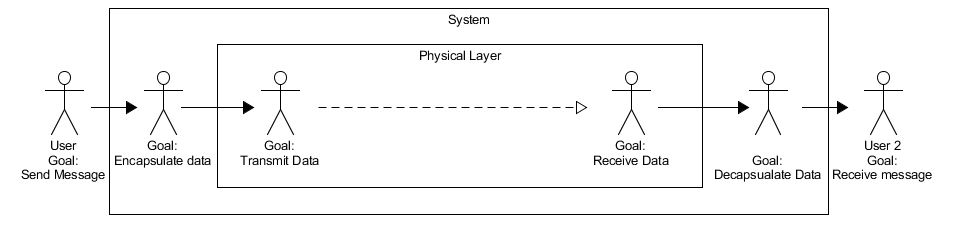
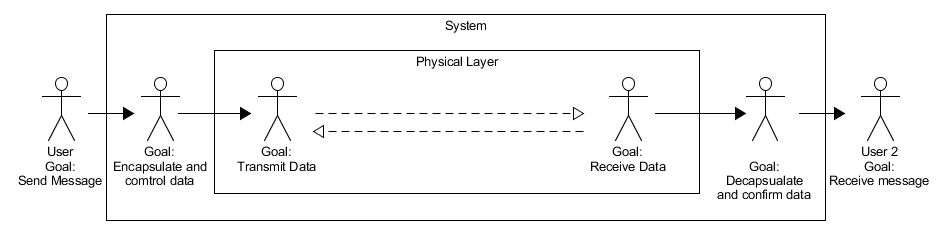
Skrevet på programstruktur

diff --git a/Documents/Rapport/Sections/Programstruktur.tex b/Documents/Rapport/Sections/Programstruktur.tex
@@ -1,38 +1,38 @@
+
+
 \section{Programstruktur}
-
-
+Baseret på de førnævnte krav blev designfasen påbegyndt. Målet var at forsimple opgaven for brugeren så meget som overhoved muligt, da det ikke vil kunne forvæntes at denne person kender noget til det bagvedlæggende system. 
+Tilsvarende ønskes der en simpel og generel anvendelse af programmets services fra de høje lag nær chat-klienten, hvor de mere administrative og praktiske funktionaliteter skal håndteres længere nede i systemet.
 
 \begin{figure}[h]
 \centering
 \includegraphics[scale=0.5]{Billeder/ProgramOpbygning1.JPG}
-\caption{Jeg kan se at det virker, så det virker}
+\caption{System opbygning - første udkast}
 \label{fig:Blokdiagram}
 \end{figure}
 
-som det kan ses i figur \ref{fig:Blokdiagram} er alt fedt. 
+Figur \ref{fig:Blokdiagram} viser første udkast til programmets struktur i grove træk. Afsenderen modtager data fra brugeren, og indkapsler dette i en format modtageren er i stand til at forstå. Herfra tager det næste lag sig ad den reelle transmission og afkodning af informationen. Dette lag er upålideligt, så modtageren skal tilsvarende her validere indholdet og rækkefølgen af informationen får at kunne sikre at informationen når korrekt frem til brugeren. 
+
+I og med at den ønskede applikation er et chat-program, er det af høj prioritet, at den logiske forbindelse mellem de to brugere er pålidelig. Dette indebære at det som afsenderen skriver skal være præcis det samme som modtageren læser. Systemet vil derfor tage udgangspunkt i TCP/IP, da denne protokol vigtigst af alt tilbyder en pålidelig overførsel af data. 
 
 
-\textbf{klade}
-formål med dette afsnit: Her skal der dannes et overblik over projektet
-Hvordan nåede vi frem til opbygningen af projektet\\
 
--Vis klassediagram (blok diagram)\\
--klasse diagrammet anvendt til dette proke t
 
-Indledning 
-kommer Direkte fra primær og sekundære krav. 
-produktet skal formes
-der tages udgangspunkt i internetstrukturen
-Hvordan forvæntes de forskellige “sorte kasser” at arbejde sammen (grænse flader)
+\subsection{Klassediagram}
+Hvordan skal en domænemodel opbygges for at sikre denne karakteristik. 
+
+Jeg 
+
+Baseret på krav og domænemodel tilføjes nu funktionalitet
+
+Jævnføre projektoplæget skal der anvendes en lagsopdelt arkitektur. 
 
 det viste klassediagram er et udkast til programmet, og kan derfor ændre sig efter behov gennem projektet. nedenstående.
 
-Jævnføre projektoplæget skal der anvendes en lagsopdelt arkitektur. 
-Inspireret af internet strukturen
 
-Hvordan skal en domænemodel opbygges for at sikre denne karakteristik. 
-Det er her Software udviklingsprincipper kommer ind i billedet
+\subsection{Ansvarsfordeling til klasser}
+Hvordan forvæntes de forskellige “sorte kasser” at arbejde sammen (grænse flader)
 
-
-\subsection{UML – Ansvarsfordeling til klasser}
 -Udpenslende forklaring af ansvarsfordeling og programstruktur.  
+
+Derfor vil opgraderinger i konverteringen på applikationslaget være nok til at lade systemet understøtte flere datatyper (billeder, lyd og filer)
